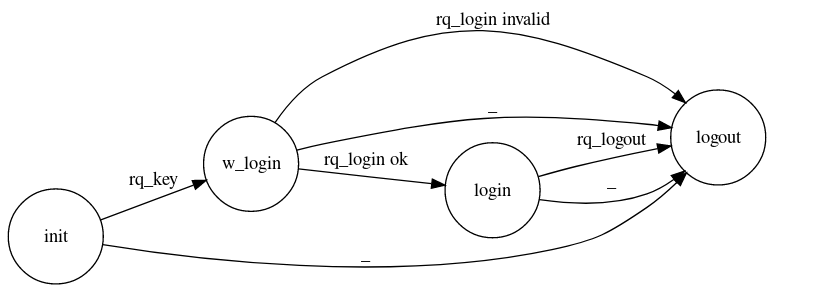
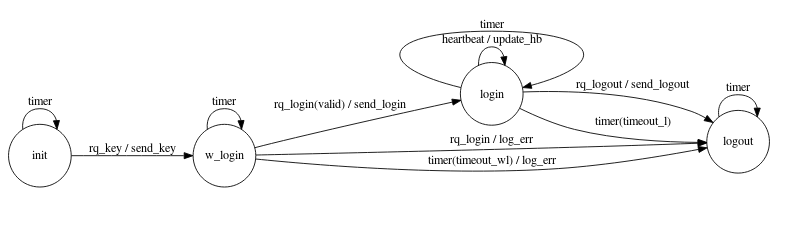
generating dot graphviz file

diff --git a/src/file/dot.rs b/src/file/dot.rs
@@ -1,0 +1,76 @@
+use fomat_macros::fomat;
+use std::fs::File;
+use std::io::prelude::*;
+use std::path::PathBuf;
+
+use crate::file::*;
+
+//  --------------------
+//      dot graphviz
+
+pub(crate) fn generate_file(
+    fsm: &[crate::parser::Status],
+    orig_path: &PathBuf,
+) -> Result<(), String> {
+    let (dir, stem_name) = get_dir_stem_name(&orig_path)?;
+
+    let file_name = format!("{}/{}.dot", dir, stem_name);
+    println!("Generating file... {}", file_name);
+
+    let mut f = File::create(file_name).map_err(|e| format!("{}", e))?;
+
+    let transitions_fsm = || {
+        let transition_st = |st: &crate::parser::Status| {
+            let guard = |oguard: &Option<String>| {
+                if let Some(g) = oguard {
+                    format!("({})", g)
+                } else {
+                    "".to_string()
+                }
+            };
+            let action = |oaction: &Option<String>| {
+                if let Some(a) = oaction {
+                    format!(" / {}", a)
+                } else {
+                    "".to_string()
+                }
+            };
+            st.transitions
+                .iter()
+                .filter(|t| t.input != "_")
+                .fold("".to_string(), |acc, t| {
+                    format!(
+                        "{}\n{} -> {} [label=\"{}{}{}\"]",
+                        acc,
+                        st.name,
+                        t.new_status,
+                        t.input,
+                        guard(&t.guard),
+                        action(&t.action)
+                    )
+                })
+        };
+        fsm.iter().fold("".to_string(), |acc, st| {
+            format!("{}\n{}", acc, transition_st(st))
+        })
+    };
+
+    let template = fomat!(
+        r#"
+digraph finite_state_machine {
+	rankdir=LR;
+	size="8,5"
+	node [shape = circle, width=1];
+
+"# (transitions_fsm()) r#"
+}
+
+"#
+    );
+
+    f.write_all(template.as_bytes())
+        .map_err(|e| format!("{}", e))?;
+
+    f.sync_all().map_err(|e| format!("{}", e))?;
+    Ok(())
+}

diff --git a/src/file.rs b/src/file.rs
@@ -3,23 +3,28 @@ use std::io::prelude::*;
 use std::path::PathBuf;
 
 pub(crate) mod cpp;
+mod dot;
 
-pub(crate) fn process(path: &PathBuf) -> std::result::Result<(), String> {
+pub(crate) struct Config {
+    pub(crate) lang: crate::Langs,
+    pub(crate) dot: bool,
+}
+
+pub(crate) fn process(path: &PathBuf, config: &Config) -> std::result::Result<(), String> {
     let mut file = File::open(path).map_err(|e| format!("{}", e))?;
     let mut contents = String::new();
     file.read_to_string(&mut contents)
         .map_err(|e| format!("{}", e))?;
 
-    let fsm = crate::parser::parse(&contents)?;
-    generate_cpp_code(&fsm, &path)?;
-    Ok(())
-}
+    let (full_fsm, part_fsm) = crate::parser::parse(&contents)?;
 
-fn generate_cpp_code(
-    fsm: &[crate::parser::Status],
-    orig_path: &PathBuf,
-) -> std::result::Result<(), String> {
-    cpp::generate_cpp_files(fsm, orig_path).map_err(|e| e.to_string())?;
+    if config.lang == crate::Langs::Cpp {
+        cpp::generate_cpp_files(&full_fsm, &path).map_err(|e| e.to_string())?;
+    }
+
+    if config.dot {
+        dot::generate_file(&part_fsm, &path).map_err(|e| e.to_string())?;
+    }
     Ok(())
 }
 

diff --git a/src/main.rs b/src/main.rs
@@ -14,6 +14,7 @@ macro_rules! enum_str {
     (enum $name:ident {
         $($variant:ident = $val:expr),*,
     }) => {
+        #[derive(PartialEq)]
         enum $name {
             $($variant),*
         }
@@ -79,6 +80,10 @@ struct Opt {
     #[structopt(short = "s", long = "show-langs")]
     show_langs: bool,
 
+    ///  Generate graphviz dot file
+    #[structopt(short = "d", long = "dot-graphviz")]
+    dot: bool,
+
     /// List of fsm files
     #[structopt(parse(from_os_str))]
     fsm_files: Vec<PathBuf>,
@@ -107,8 +112,13 @@ fn main() {
                 .build_global()
                 .unwrap();
         }
+        let config = file::Config {
+            lang: opt.lang,
+            dot: opt.dot,
+        };
         match opt.fsm_files.par_iter().try_for_each(|f| {
-            file::process(&f).map_err(|e| format!("error processing file: {:?}\n\n{}", f, e))
+            file::process(&f, &config)
+                .map_err(|e| format!("error processing file: {:?}\n\n{}", f, e))
         }) {
             Ok(()) => (),
             Err(e) => eprintln!("{}", e),

diff --git a/src/parser.rs b/src/parser.rs
@@ -60,14 +60,14 @@ pub struct Transition {
     pub(crate) new_status: String,
 }
 
-pub fn parse(input: &str) -> Result<Fsm, String> {
+pub fn parse(input: &str) -> Result<(Fsm, Fsm), String> {
     match fsm_peg::fsm(input) {
-        Ok(fsm) => Ok(complete_fsm(fsm)),
+        Ok(fsm) => Ok((complete_fsm(&fsm), fsm)),
         Err(e) => Err(format!("{:?}", e)),
     }
 }
 
-fn complete_fsm(fsm: Fsm) -> Fsm {
+fn complete_fsm(fsm: &[Status]) -> Fsm {
     let allstinputs = get_all_input_names(&fsm);
     let get_full_status_in = |st: &Status, allstinputs: &BTreeSet<String>| -> Status {
         let missing_inputs = |st: &Status, allstinputs: &BTreeSet<String>| -> Vec<String> {

diff --git a/README.md b/README.md
@@ -6,8 +6,6 @@ Pending to upload to crates.io
 
 ## TODO
 
-- Consider \_ input for default behavior on not declared inputs
-- generate dot files for graphviz
 - Upload to crates.io
 - Support for multiple guards and actions
 
@@ -33,6 +31,10 @@ In this repository I rewrite one of them, the code generator for a state machine
 
 At the moment it generates C++ code (my most immediate target in production).
 
+```
+You can have data (fields) on inputs structs, and also on each status
+```
+
 To explain the system, I will use the example in [cpp_test/fsm](cpp_test/fsm)
 
 This example is about writing a system that will handle login requests.
@@ -49,7 +51,7 @@ The diagram would look like this:
 
 ![Basic diagram](basic_diagram.png)
 
-A full list of transitions could be written as:
+A list of transitions could be written as:
 
 ```peg
 [init]
@@ -77,6 +79,8 @@ A full list of transitions could be written as:
 ```
 
 And this is the input for this tool to generate code
+
+In fact, even the previous diagram has been generated from this `DSL` (it generated a graphviz dot file)
 
 ### Elements
 
@@ -504,23 +508,6 @@ The first parameter is a text with the description of the transition. Example:
 [login] rq_logout -> logout
 ```
 
-## Diagram source
+## Diagrams source
 
-```
-basic diagram
-digraph finite_state_machine {
-	rankdir=LR;
-	size="8,5"
-	node [shape = circle, width=1];
-
-    init        ->  w_login [label="rq_key"]
-    init        ->  logout  [label="_"]
-
-    w_login     ->  login   [label="rq_login ok"]
-    w_login     ->  logout  [label="rq_login invalid"]
-    w_login     ->  logout  [label="_"]
-
-    login       ->  logout  [label="rq_logout"]
-    login       ->  logout  [label="_"]
-}
-```
+...
